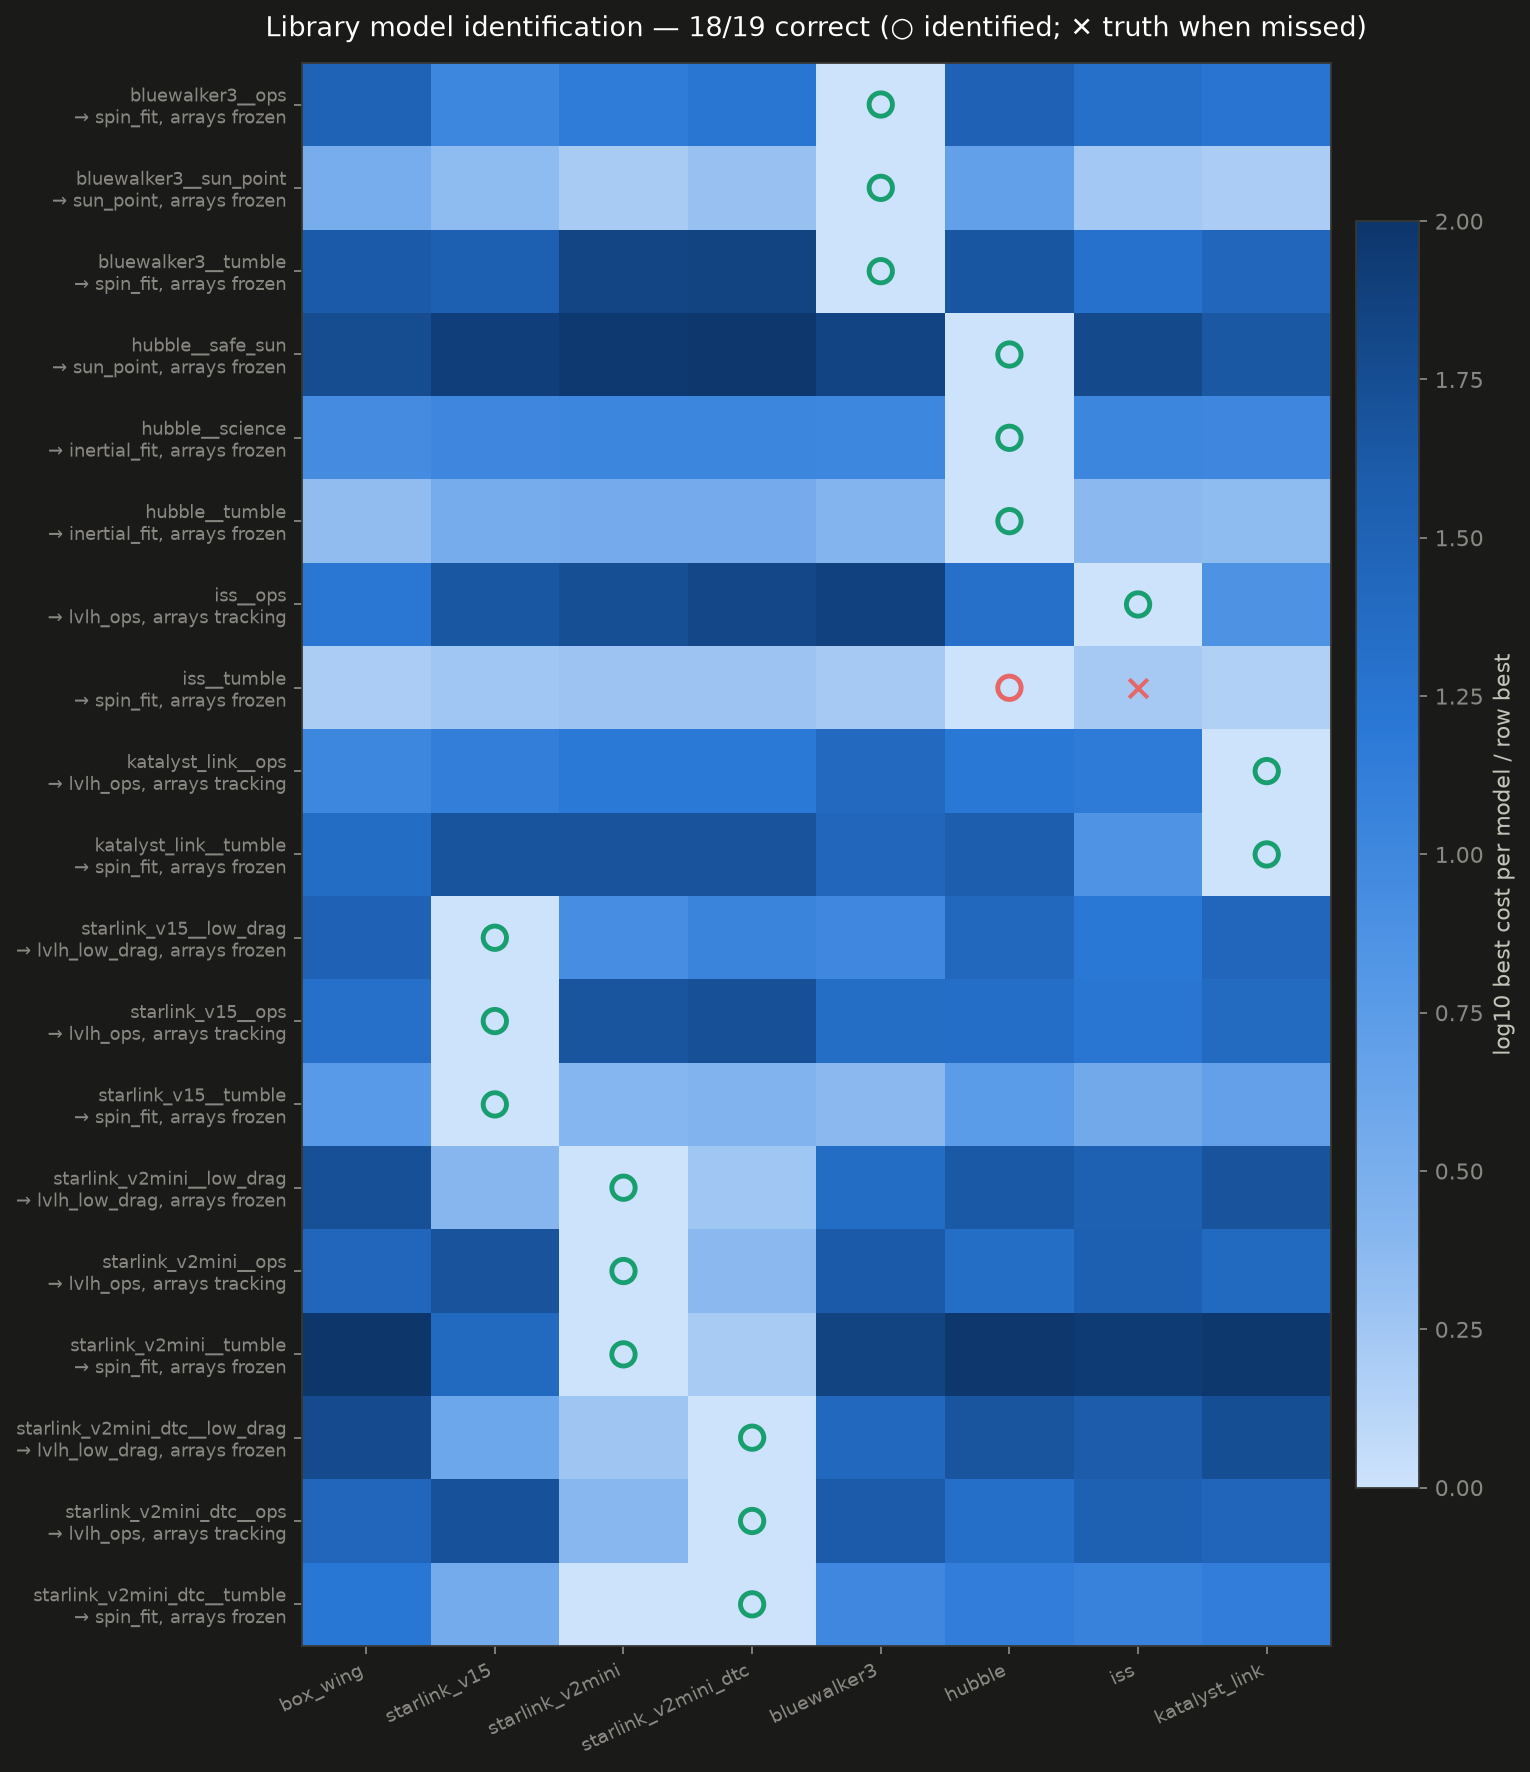
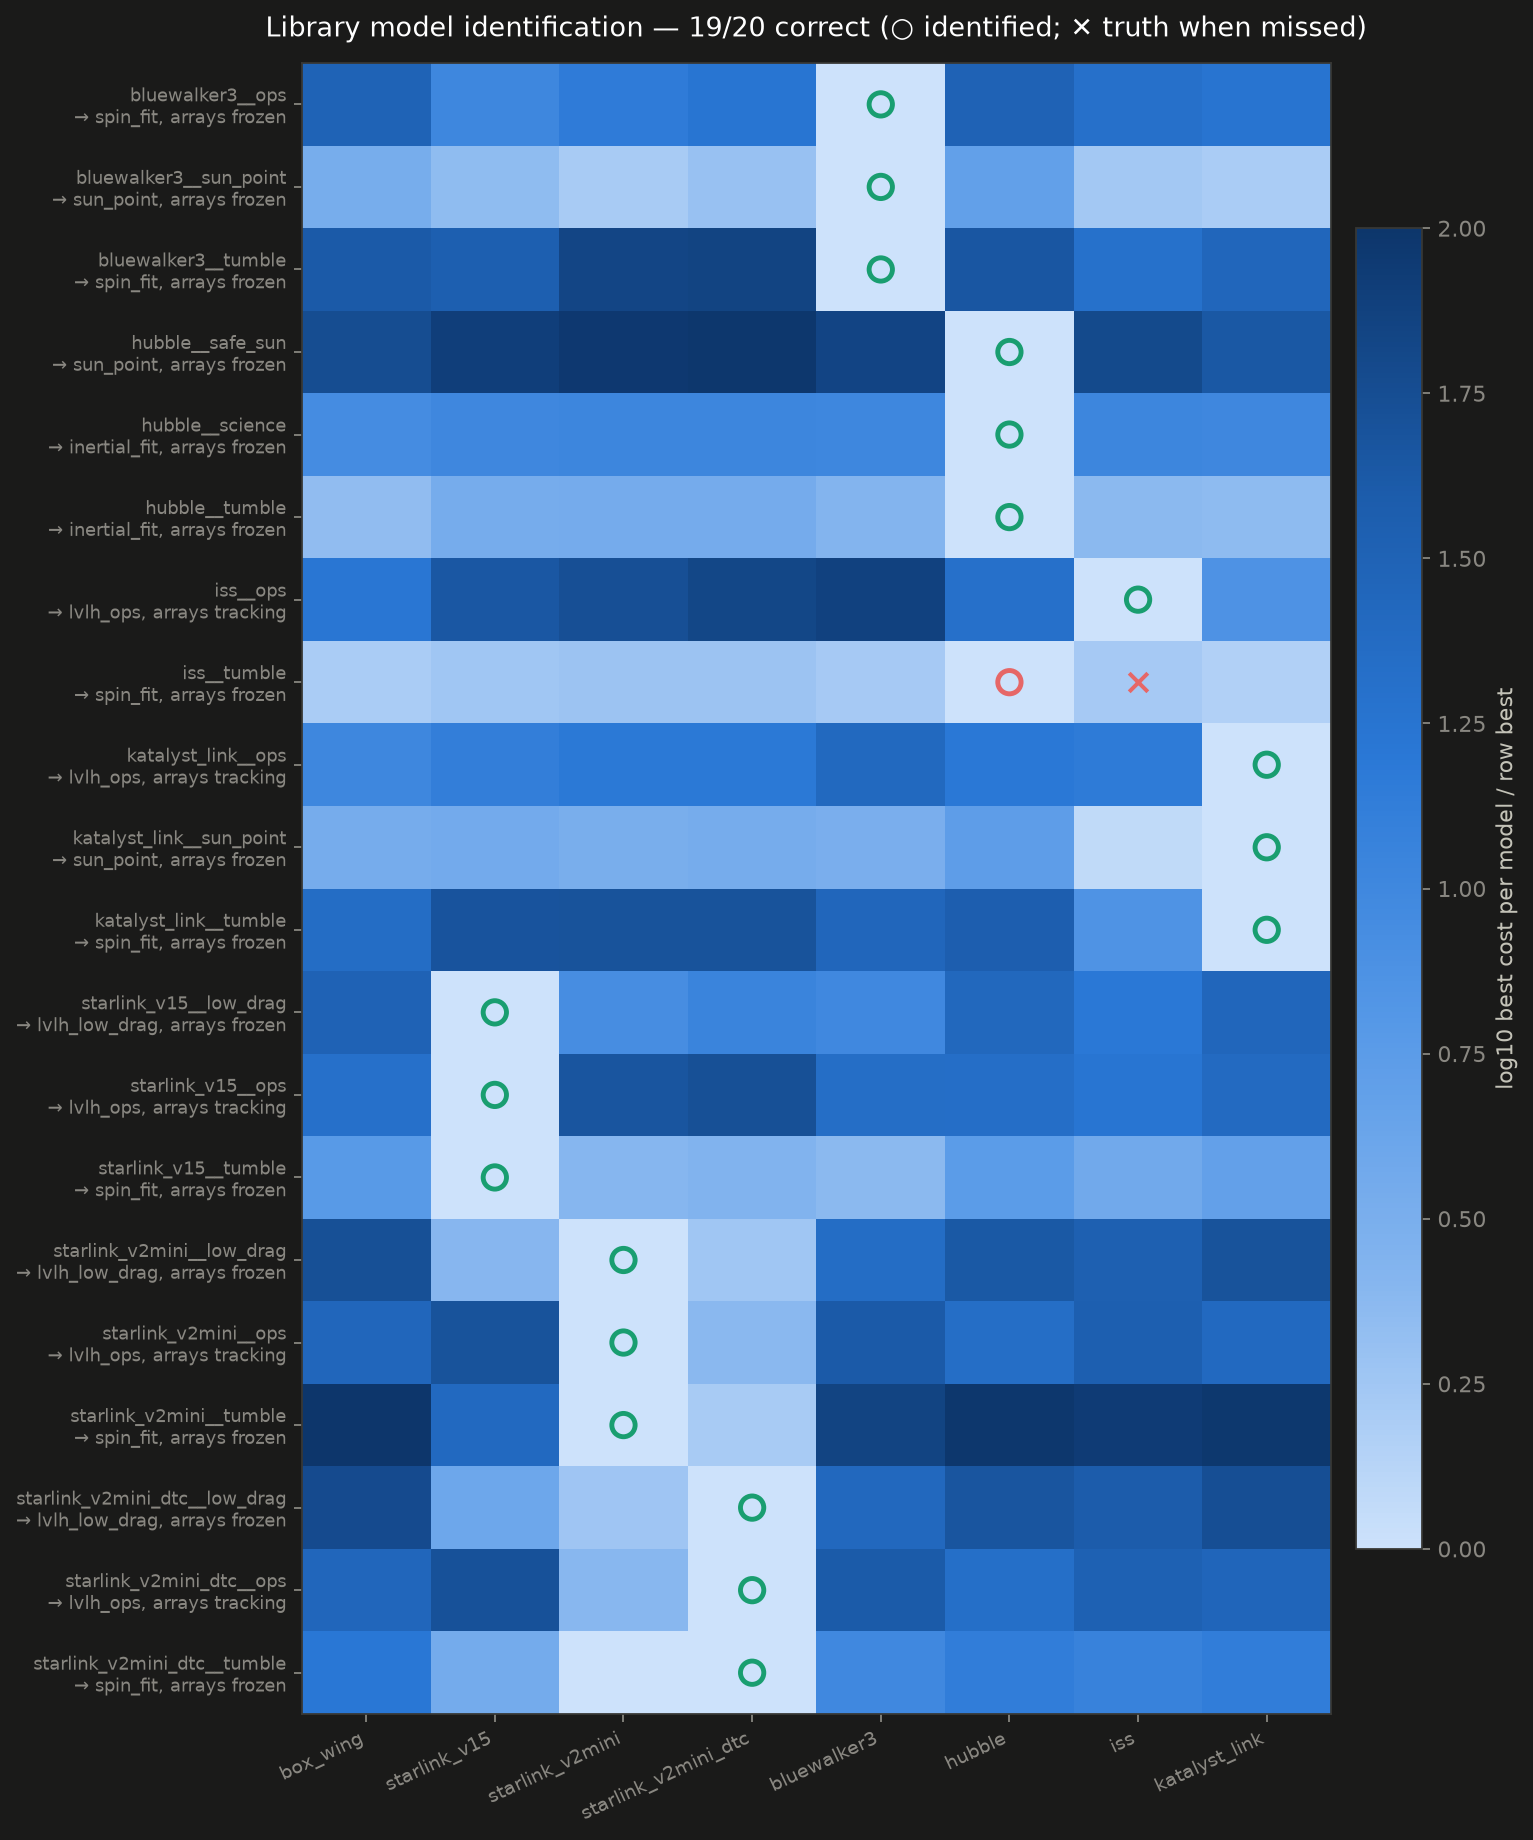
Complete library identification on all 20 scenarios (19/20 correct)
The single miss (tumbling ISS identified as Hubble) is a detectable
no-confident-match case: best cost 42 vs ~1 for typical correct matches.
Saturation censoring biases surviving photometry toward smaller objects;
a truncated likelihood is the fix path. README updated with rounds 5
results (variational Minkowski, residual EGI, split-plot movies).

Claude-Session: https://claude.ai/code/session_018HUFR9zZ7uRcLJ1h3DAMGJ

diff --git a/README.md b/README.md
@@ -88,14 +88,50 @@ unknown target and sweeps the full model library x attitude hypotheses x
 array configurations, scoring each with the photometric forward model.
 The photometric offset carries a 0.5-mag prior instead of being free, so
 absolute brightness (range is known) lets size discriminate between
-models. On seven representative scenarios: **7/7 correct
+models. Across all 20 scenarios: **19/20 correct
 model + attitude-mode + array-config identifications**, including
 separating Starlink v2 mini DTC from the plain v2 mini (the
 half-bus-length nadir antenna panel is photometrically detectable:
 best-fit cost 1.09 vs 2.64 for the non-DTC model) and identifying that
 ISS/v2-mini arrays were sun-tracking rather than frozen.
 
+The one miss is diagnostic gold: the tumbling ISS identifies as "Hubble"
+— but at cost 42 where correct matches typically score ~1, i.e. *nothing*
+fits, and a real product would report "no confident match". The cause is
+saturation censoring: detections brighter than the tracker cap are
+discarded, so the surviving photometry looks like a much smaller object.
+The fix is a truncated (censored) likelihood — future work.
+
 ![model match](results/charts/08_model_match.png)
+
+## Matched-model refinement and residual EGI
+
+`inversion/refine.py` promotes the match winner to a refined product:
+full-resolution attitude re-fit plus a **signed residual EGI** solved on
+top of the matched model. Deviations from the catalog appear as localized
+signed oriented area; a catalog-true target leaves noise. Demo
+(`scripts/run_refine.py`, chart 09): matching the DTC scenario against
+the *plain* v2 mini model recovers +0.55 m² of residual area within 25°
+of the missing antenna's nadir normal (residual rms 1.57 → 1.02), while
+both correct-model control cases stay flat at the noise floor.
+
+![residual EGI](results/charts/09_residual_egi.png)
+
+## Shape reconstruction
+
+`inversion/minkowski.py` reconstructs the convex body whose face
+normals/areas match the recovered EGI. The default solver is
+variational — minimize the support functional `(a·h)/V(h)^(1/3)` with
+the analytic gradient `dV/dh_i = A_i(h)` — which converges slab-like
+EGIs to correct proportions (e.g. Starlink v1.5 recovers a
+7.7 × 3.7 × 1.0 m slab against the true 8.1 × 2.7 m array) where a
+per-face fixed-point stalls; the fixed point remains as fallback.
+
+Validation movies (`results/movies/`) use a split layout: left, the
+model-free inversion (Minkowski hull + raw EGI disks) against truth;
+right, the Tier-2 identified library model at the identified attitude
+and array articulation over faint truth — with 2D projections onto the
+three LVLH planes below.
 
 ![fleet modes](results/charts/06_fleet_modes.png)
 ![fleet EGI](results/charts/07_fleet_egi.png)
